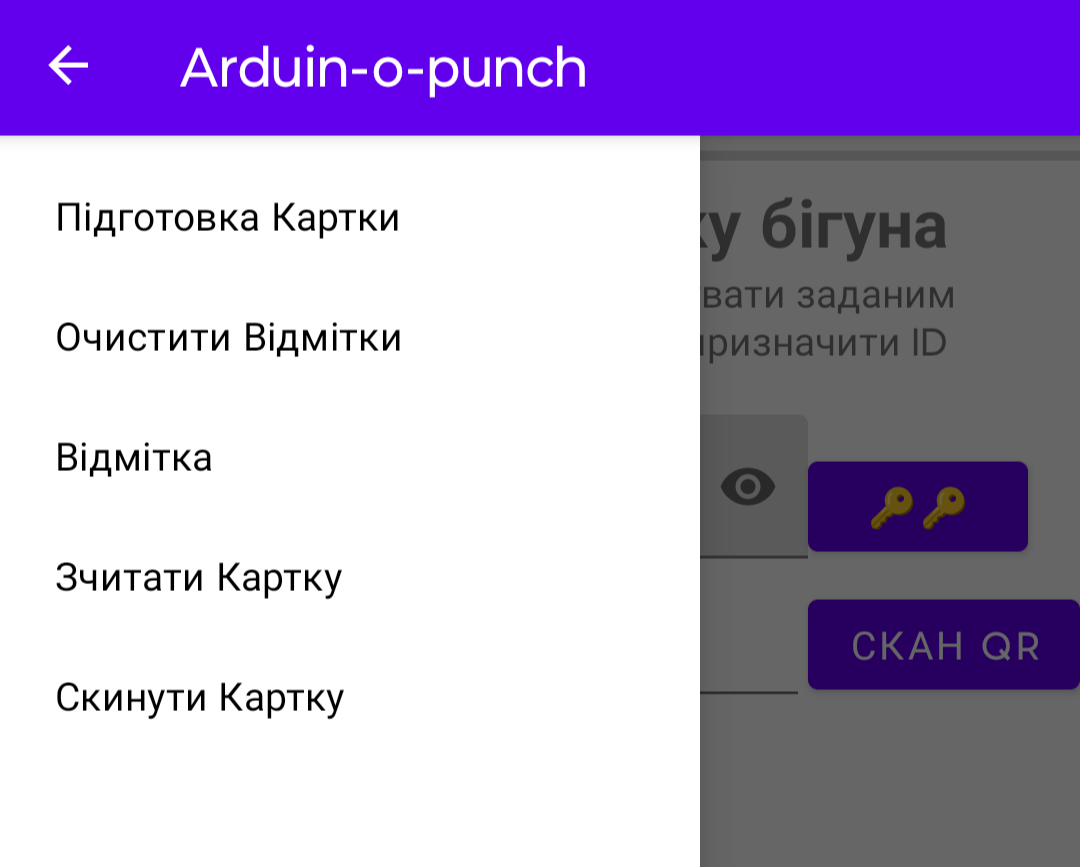
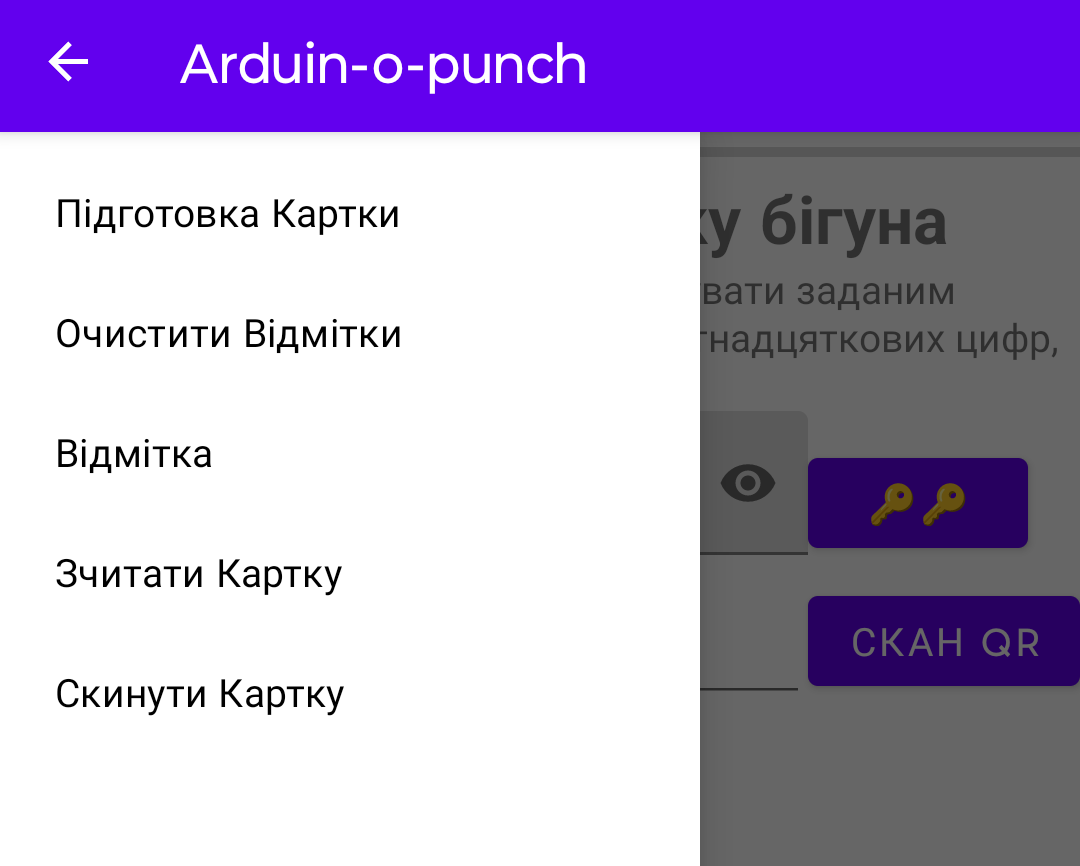
Fix Android app layout for smaller screens

diff --git a/CHANGELOG.uk.md b/CHANGELOG.uk.md
@@ -14,6 +14,7 @@
 ### Змінено
 
 - Виправлено обчислення затримки в sync_clock.py, явне очікування на запрошення
+- Виправлено розміщення на екрані додатку Android для менших екранів
 
 ### Видалено
 

diff --git a/CHANGELOG.md b/CHANGELOG.md
@@ -14,6 +14,7 @@ and this project adheres to [Semantic Versioning](https://semver.org/spec/v2.0.0
 ### Changed
 
 - Fix latency calculation in sync_clock.py, wait for the prompt explicitly
+- Fix layout in Android app for smaller screens
 
 ### Removed
 
